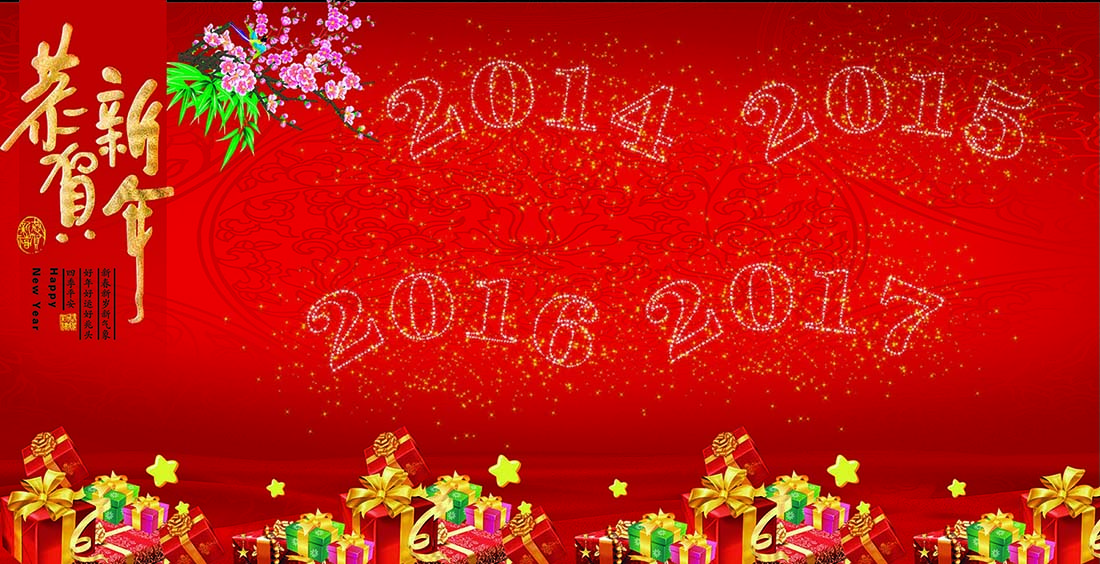
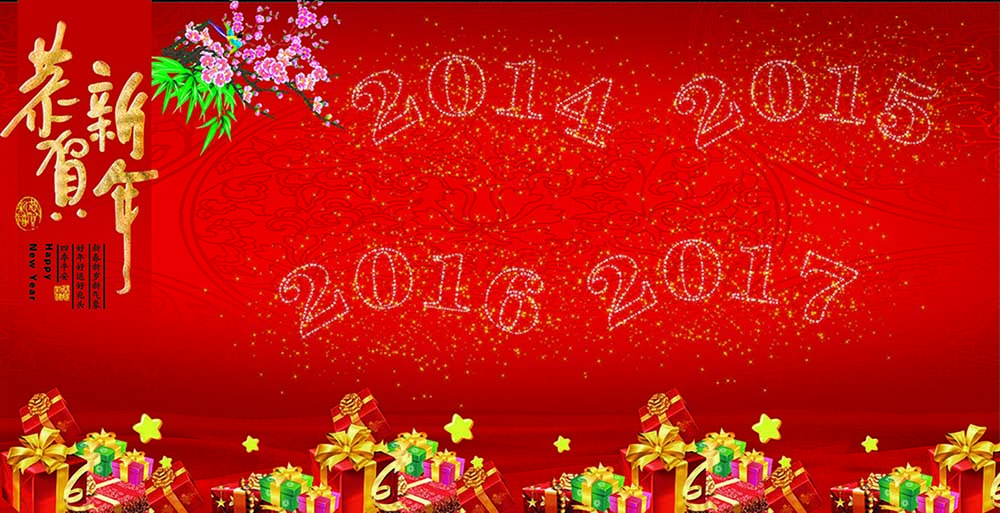
优化banner图片大小 20170124 post

diff --git a/_posts/2017-01-24-2016-year-report.md b/_posts/2017-01-24-2016-year-report.md
@@ -66,18 +66,18 @@ __什么都木有干！！！__
 
 * 设定小目标，希望能够完成它。
 * 加强锻炼，召回腹肌。
-* 小站常更新
+* 小站常更新。
 * 积跬步，有进步。
 
 ### 后记
 
-还有一事：前段时间坐三角翼小飞机，体验了爬升、俯冲、失重下降、大转弯、低空过场等动作。所以，以后如果有人问：你咋不上天呢，我就可以答：我真上过天，还吼过。。。
+还有一事：前段时间坐三角翼小飞机，体验了爬升、俯冲、失重下降、大转弯、低空过场等动作。所以，以后如果有人问：你咋不上天呢？我就可以答：我真上过天，还吼过。。。
 <br>
 希望新一年，自己能够像小飞机那样飞得潇洒！
 
 ---
 
-最后，祝看官鸡年大吉，万事如意~~~
+最后，祝各位看官：鸡年大吉，万事如意~~~
 <img src="/img/2017/01/jiniandaji.jpg" alt="" style="cursor: pointer; width: 100%; height: auto;">
 
 
